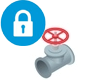
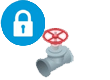
Sprint 10 - Some image changes. Tweak to store display.

diff --git a/src/com/endicott/edu/models/ItemModel.java b/src/com/endicott/edu/models/ItemModel.java
@@ -64,6 +64,13 @@ public class ItemModel implements Serializable {
         return imageName;
     }
 
+    public String getLockedImageName() {
+        if (imageName.length() <= 4 || !imageName.contains("."))
+            return imageName;
+
+        return imageName.replace(".","_k.");
+    }
+
     public void setImageName(String imageName) {
         this.imageName = imageName;
     }
@@ -82,6 +89,12 @@ public class ItemModel implements Serializable {
 
     public void setDescription(String description) {
         this.description = description;
+    }
+
+    public static void main(String[] args) {
+        ItemModel i = new ItemModel();
+        i.setImageName("abc.png");
+        System.out.println(" " + i.getLockedImageName());
     }
 }
 
